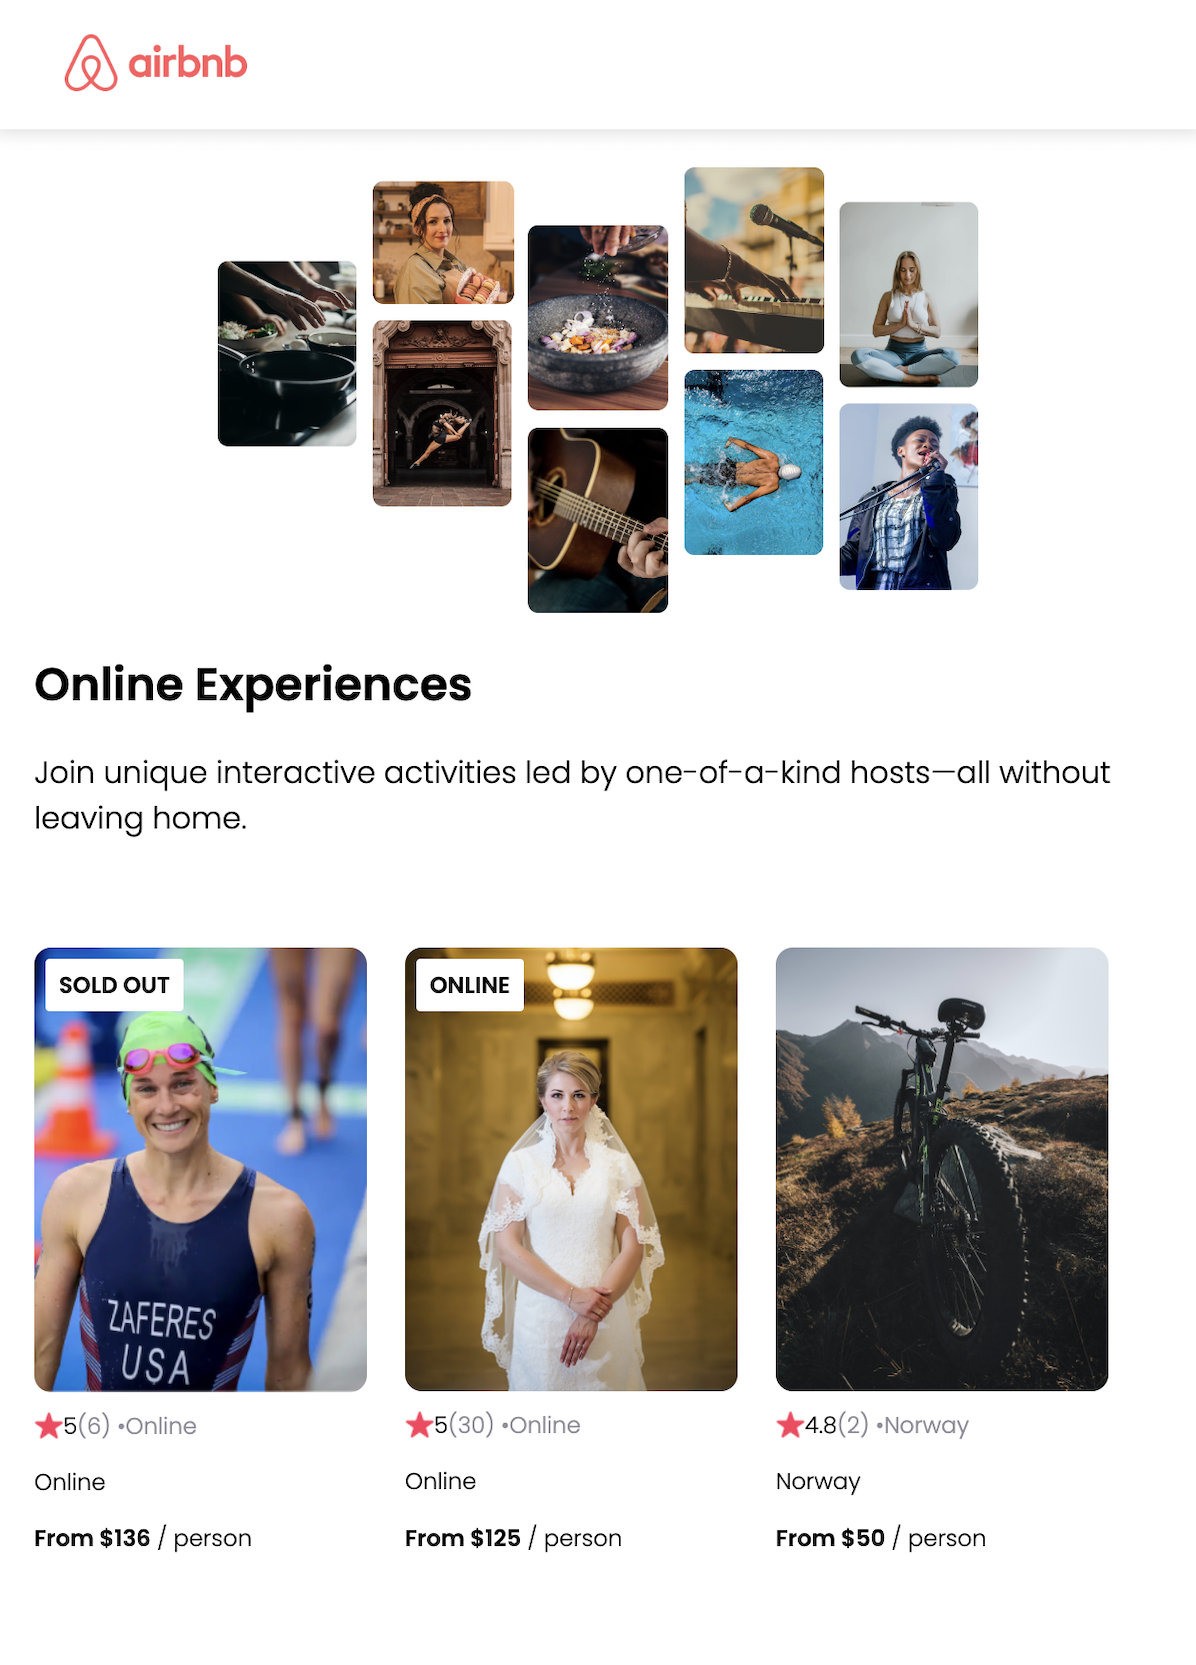
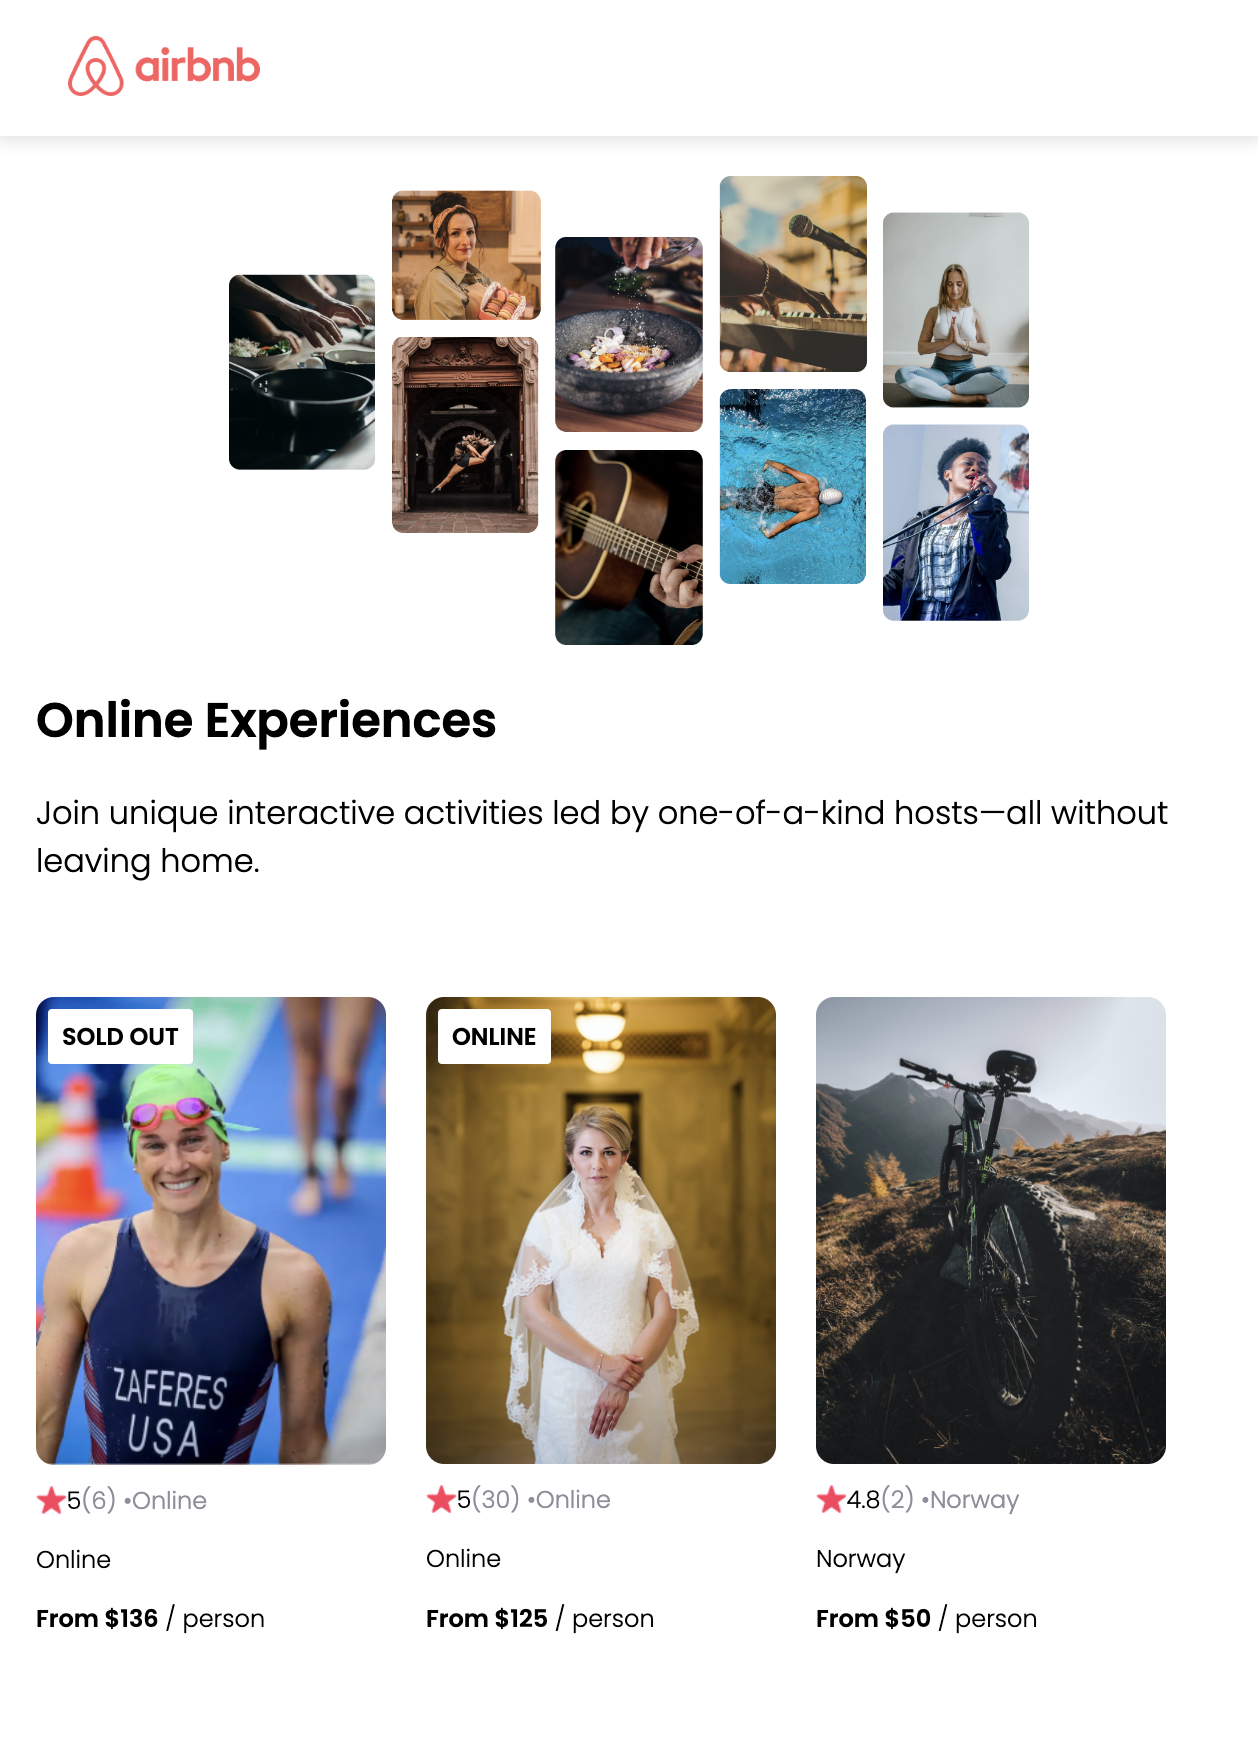
Object-fit img

diff --git a/css/style.css b/css/style.css
@@ -401,6 +401,9 @@ header {
 
 .portfolio__img {
   transition: transform 750ms cubic-bezier(0.5, 0, 0.5, 1), opacity 250ms linear;
+  object-fit: contain;
+  width: 480px;
+  height: 480px;
 }
 
 .portfolio__item:focus {
